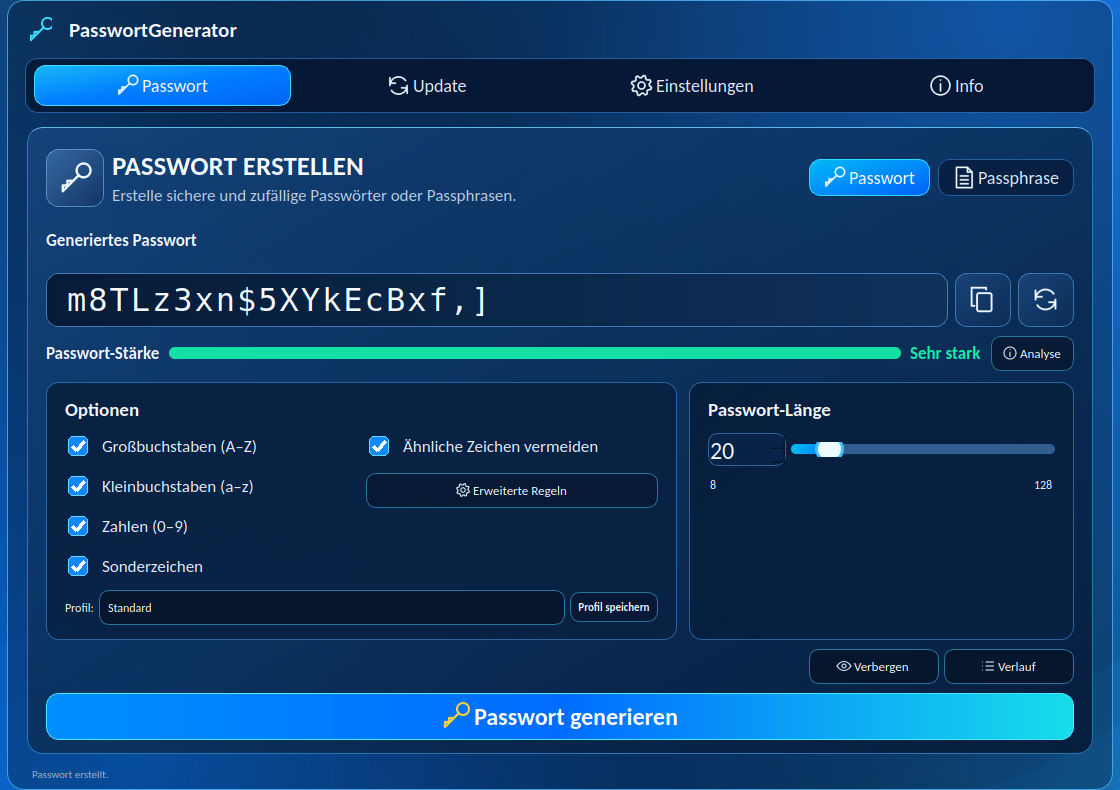
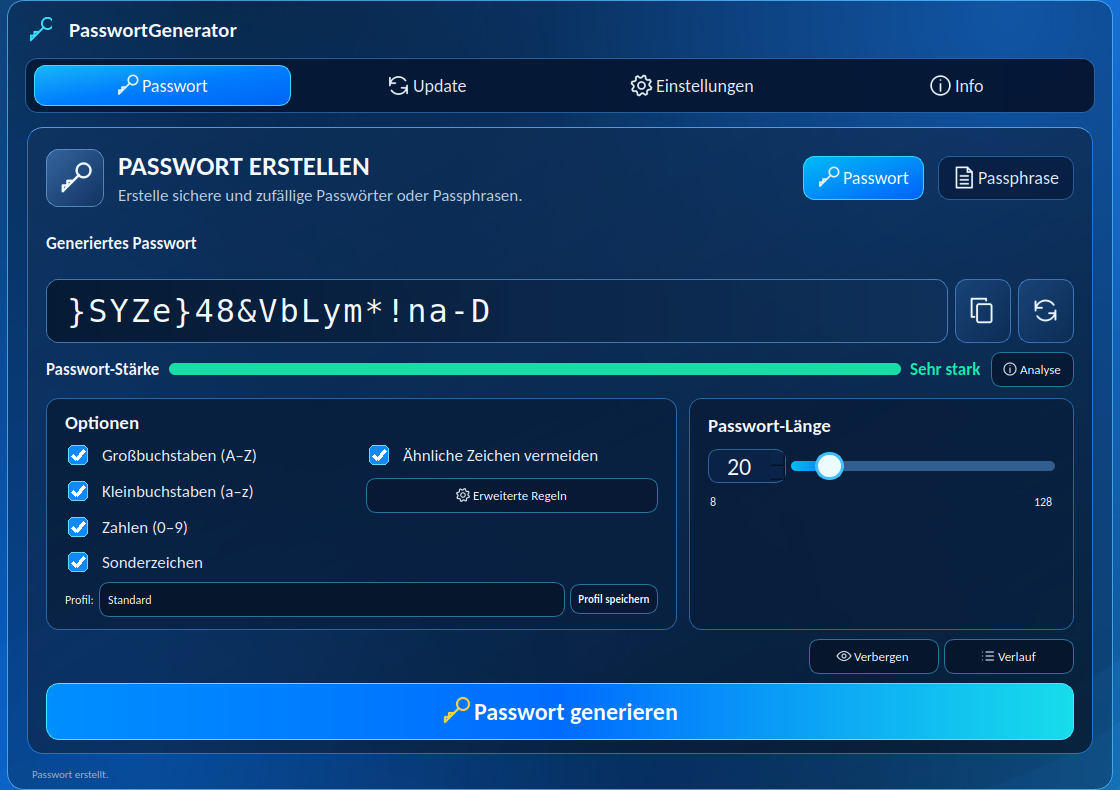
fix(unstable): keep reference controls readable and build with Python 3.12
Give the circular slider thumb sufficient height and keep the length value visible.
Enforce the Generate button's height in Qt CSS rather than relying on style-dependent fixed-size adjustments; preserve the existing height regression checks.
Use Python 3.12 for the shipped runtime and all GUI/packaging workflows after a PySide6 6.12 None-reference teardown abort on Python 3.11.
Validated with 80 unit checks, all 13 GUI/stress checks and an actual application capture.

diff --git a/main.py b/main.py
@@ -272,7 +272,7 @@ class PasswordWindow(QMainWindow):
         group.layout().setSpacing(3)
 
         mode_row = QHBoxLayout()
-        mode_row.setSpacing(8)
+        mode_row.setSpacing(14)
         self.ocean_hero_icon = QLabel()
         self.ocean_hero_icon.setPixmap(icon_pixmap('key', 37))
         self.ocean_hero_icon.setObjectName('oceanHeroIcon')
@@ -395,7 +395,7 @@ class PasswordWindow(QMainWindow):
         self.ocean_options_panel.setMinimumWidth(250)
         options_col = QVBoxLayout(self.ocean_options_panel)
         self.ocean_options_layout = options_col
-        options_col.setContentsMargins(18, 15, 18, 14)
+        options_col.setContentsMargins(18, 12, 18, 12)
         options_col.setSpacing(10)
         self.ocean_options_heading = QLabel('Optionen')
         self.ocean_options_heading.setObjectName('oceanPanelHeading')
@@ -426,11 +426,13 @@ class PasswordWindow(QMainWindow):
         self.length.setRange(8, 128)
         self.length.setValue(20)
         self.length.setFixedWidth(78)
+        self.length.setAlignment(Qt.AlignmentFlag.AlignCenter)
         self.length.setAccessibleName('Länge des Passworts')
         length_row.addWidget(self.length)
         length_col.addLayout(length_row)
         self.length_slider = QSlider(Qt.Orientation.Horizontal)
         self.length_slider.setObjectName('oceanLengthSlider')
+        self.length_slider.setMinimumHeight(34)
         self.length_slider.setRange(8, 128)
         self.length_slider.setValue(20)
         self.length_slider.setAccessibleName('Länge einstellen')
@@ -1402,10 +1404,10 @@ class PasswordWindow(QMainWindow):
             # Prevent the enormous empty panels from the previous design.
             # Cap panel growth instead of resetting QWidget min/max heights
             # on every resize, avoiding Qt binding invalidation under stress.
-            self.ocean_sections.setMaximumHeight(276 if self._phrase_mode else 258)
-            self.output.setFixedHeight(54)
-            self.copy_top_button.setFixedHeight(54)
-            self.regenerate_button.setFixedHeight(54)
+            self.ocean_sections.setMaximumHeight(276 if self._phrase_mode else 232)
+            self.output.setFixedHeight(64)
+            self.copy_top_button.setFixedHeight(64)
+            self.regenerate_button.setFixedHeight(64)
         else:
             self.ocean_sections.setMaximumHeight(16777215)
             self.output.setFixedHeight(43)
@@ -1413,8 +1415,8 @@ class PasswordWindow(QMainWindow):
             self.regenerate_button.setFixedHeight(43)
         # Give the choices more breathing room on large screens without
         # forcing a scrollbar when the same app is resized narrowly.
-        self.check_layout.setVerticalSpacing(13 if ocean and wide else 2)
-        self.ocean_options_layout.setSpacing(11 if ocean and wide else 5)
+        self.check_layout.setVerticalSpacing(10 if ocean and wide else 2)
+        self.ocean_options_layout.setSpacing(7 if ocean and wide else 5)
         self.brand_subtitle.setVisible(not ocean)
         self.brand_icon.setFixedSize(32, 36)
         desktop = self.width() >= 960
@@ -1426,7 +1428,7 @@ class PasswordWindow(QMainWindow):
             self.brand_title,
             'PasswortGenerator' if ocean else 'Passwort-Generator',
         )
-        self.generate_button.setFixedHeight(57 if ocean and wide else 40)
+        self.generate_button.setFixedHeight(57 if self.width() >= 960 else 40)
         self.generate_button.setMaximumWidth(16777215 if ocean else 360)
         self.password_group_layout.setAlignment(
             self.generate_button,
@@ -1524,7 +1526,7 @@ class PasswordWindow(QMainWindow):
                 + neon_stylesheet(FIXED_BG, FIXED_FG, FIXED_ACCENT,
                                   ocean_theme=True, compact=self.width() < 960)
             )
-        self.generate_button.setFixedHeight(57 if self.width() >= 780 else 40)
+        self.generate_button.setFixedHeight(57 if self.width() >= 960 else 40)
 
     def generate(self):
         try:

diff --git a/reference_style.py b/reference_style.py
@@ -6,7 +6,7 @@ def reference_stylesheet(compact=False):
     sizes = {'nav': 14 if compact else 18, 'mode': 13 if compact else 18,
              'title': 22 if compact else 27, 'subtitle': 13 if compact else 17,
              'output': 22 if compact else 32, 'label': 13 if compact else 17,
-             'panel': 15 if compact else 19, 'cta': 18 if compact else 24}
+             'panel': 15 if compact else 19, 'cta': 18 if compact else 24, 'cta_height': 38 if compact else 55}
     css = """
 /* Ocean Glass: fixed reference appearance, native Qt widgets. */
 QWidget { font-family: "Carlito"; }
@@ -85,6 +85,7 @@ QSlider#oceanLengthSlider::handle:horizontal { width: 23px; margin: -9px 0; back
 QProgressBar#strengthBar { background: #265887; border: none; border-radius: 6px; min-height: 12px; max-height: 12px; }
 QProgressBar#strengthBar::chunk { background: #16DFA5; border-radius: 6px; }
 QPushButton#generatePasswordButton {
+    min-height: @cta_height@px; max-height: @cta_height@px; padding: 0 15px;
     color: white; font-size: @cta@px; font-weight: 700; border: 1px solid #47E9FF; border-radius: 13px;
     background: qlineargradient(x1:0,y1:0,x2:1,y2:0,stop:0 #008FFF,stop:.5 #006CFF,stop:1 #17DDEB);
 }

diff --git a/tests/smoke_default_ocean_ui.py b/tests/smoke_default_ocean_ui.py
@@ -49,6 +49,8 @@ assert window.ocean_page_subtitle.text() == 'Erstelle sichere und zufällige Pas
 assert window.ocean_sections.height() <= 276
 assert window.ocean_length_panel.height() <= 276
 assert window.output.height() >= 54
+assert window.length_slider.height() >= 30  # Keep the round thumb fully inside its widget.
+assert window.length.lineEdit().width() >= 25  # The numeric value must remain readable.
 assert window.generate_button.height() >= 55
 assert not window.ocean_hero_icon.pixmap().isNull()
 assert window.font().family() == 'Carlito'

diff --git a/tests/capture_readme_screenshot.py b/tests/capture_readme_screenshot.py
@@ -51,7 +51,7 @@ assert window.generate_button.isVisible()
 assert window.generate_button.objectName() == 'generatePasswordButton'
 assert window.generate_button.width() >= 600
 print(f'CTA metrics: width={window.generate_button.width()}, height={window.generate_button.height()}')
-assert 40 <= window.generate_button.height() <= 60
+assert 55 <= window.generate_button.height() <= 60
 assert window.ocean_sections.height() <= 276
 assert window.output.height() >= 54
 assert not window.ocean_hero_icon.pixmap().isNull()
